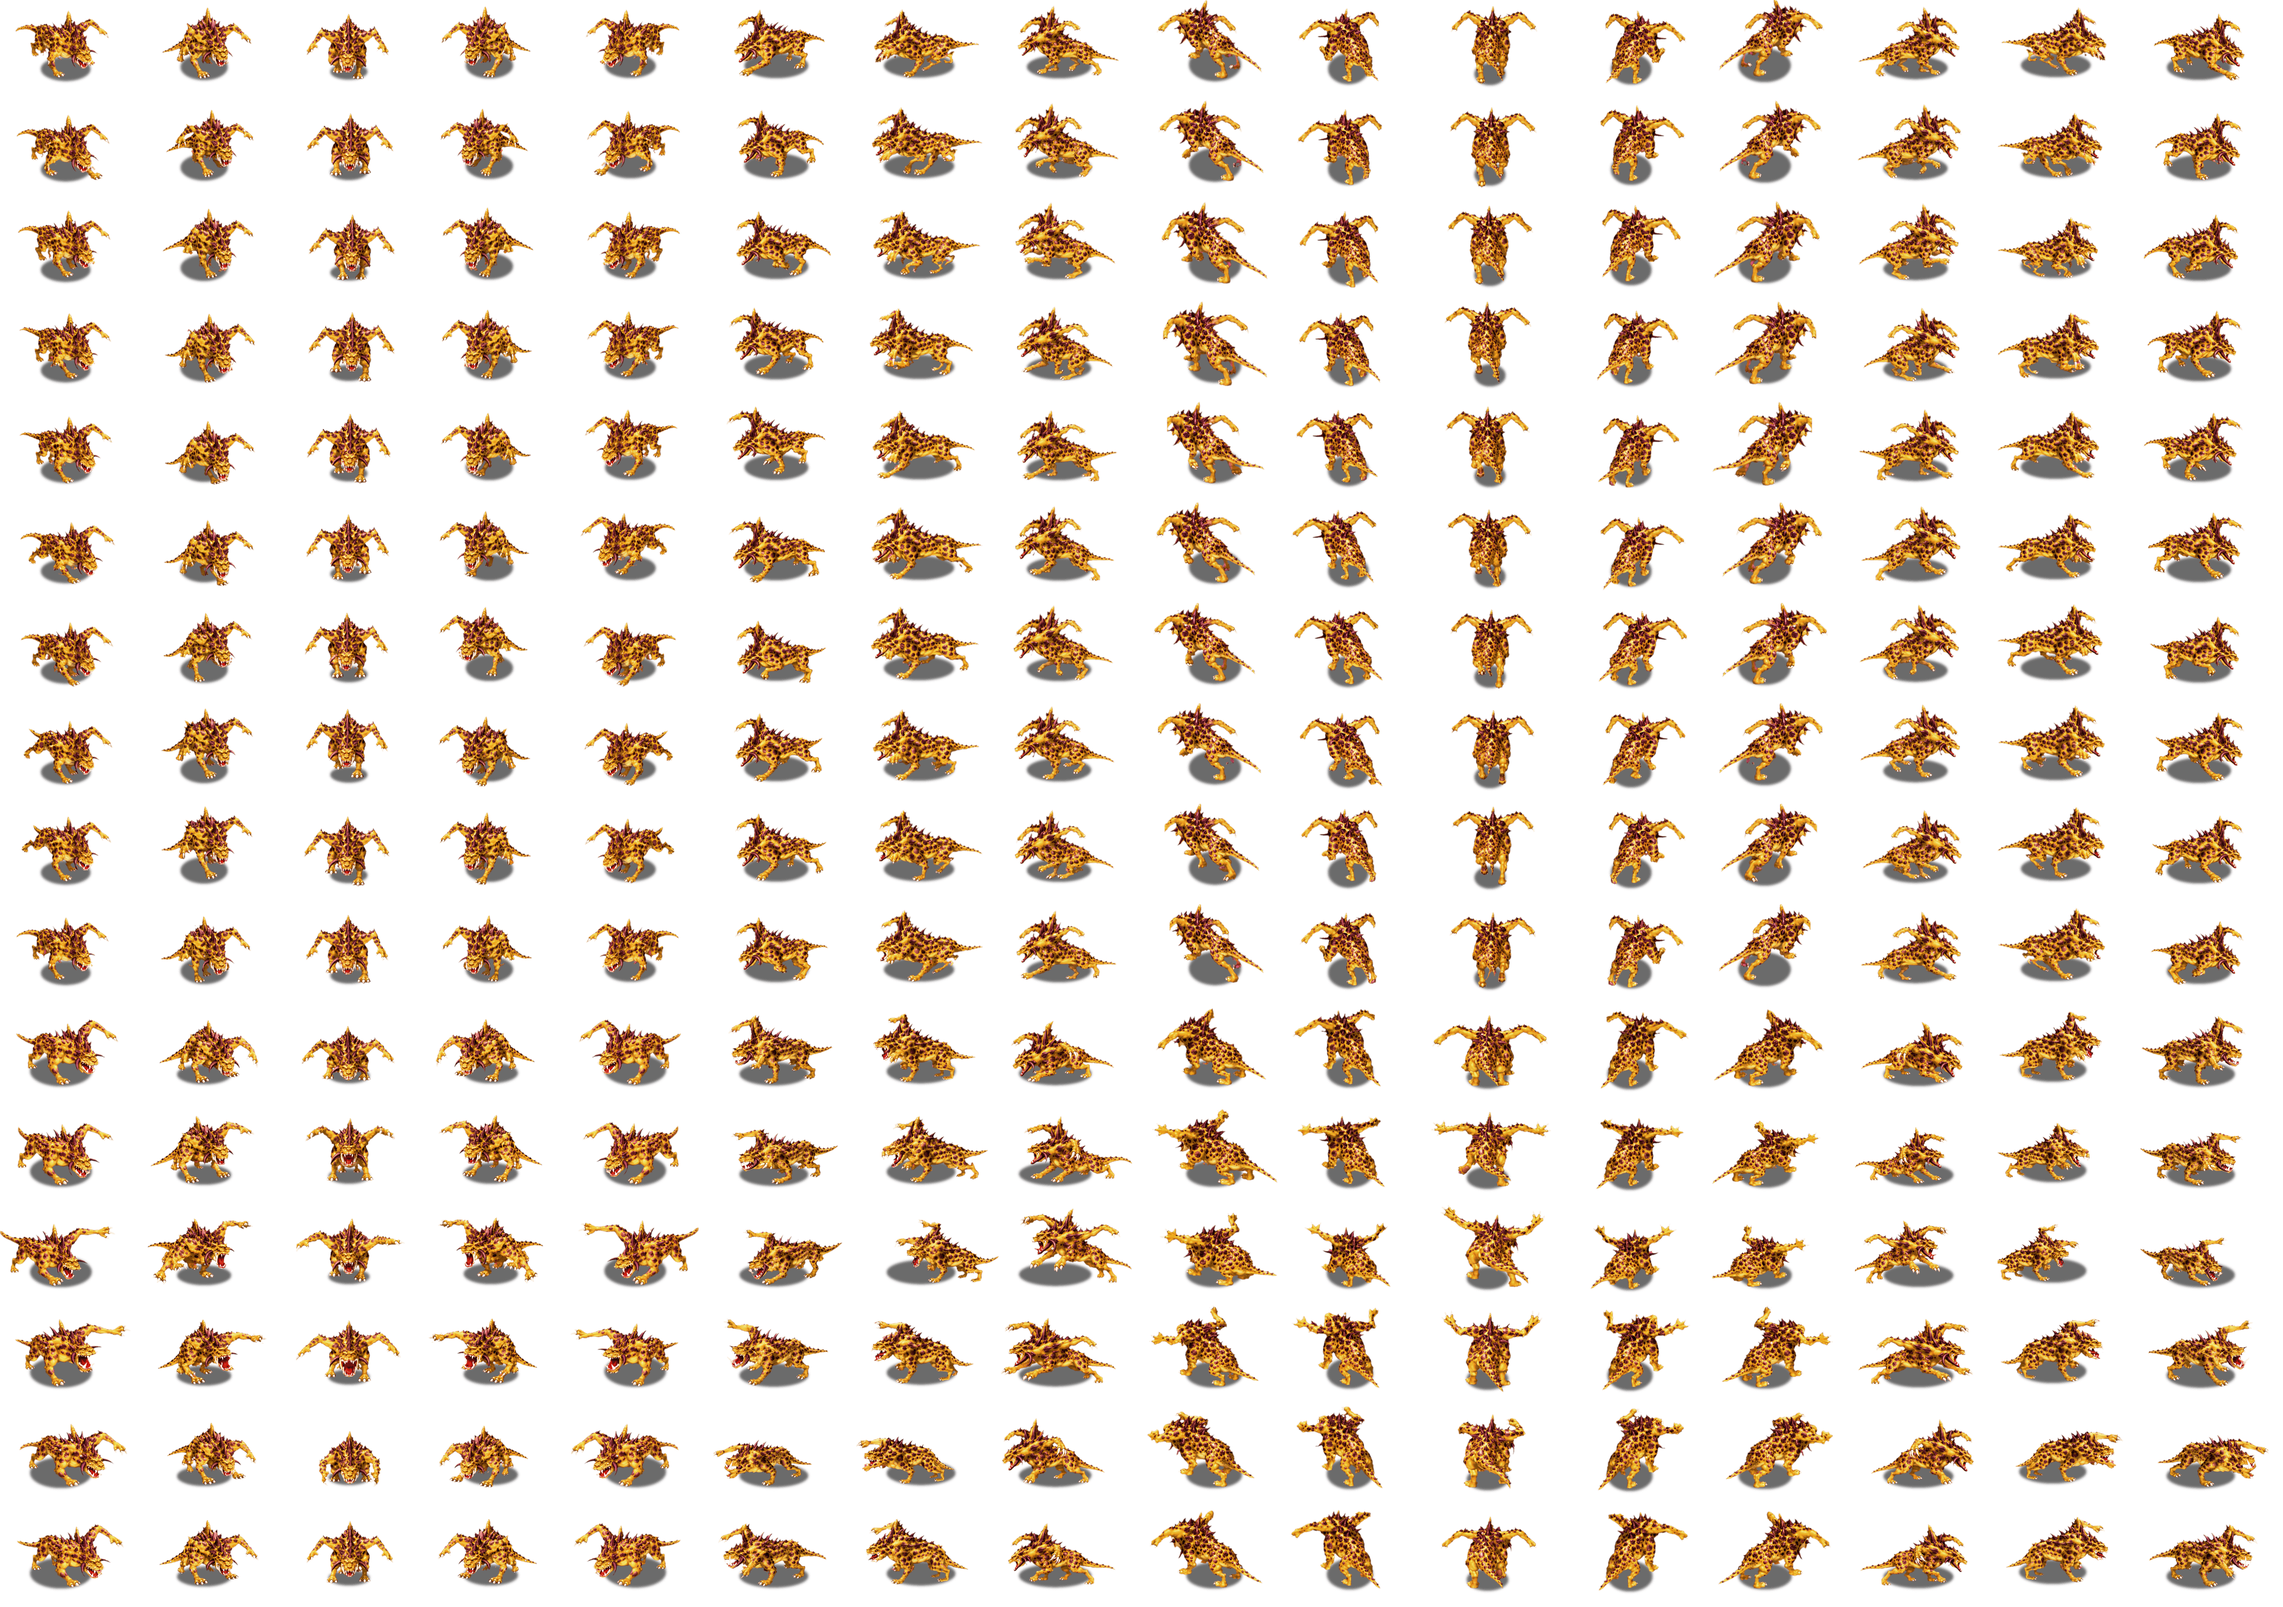
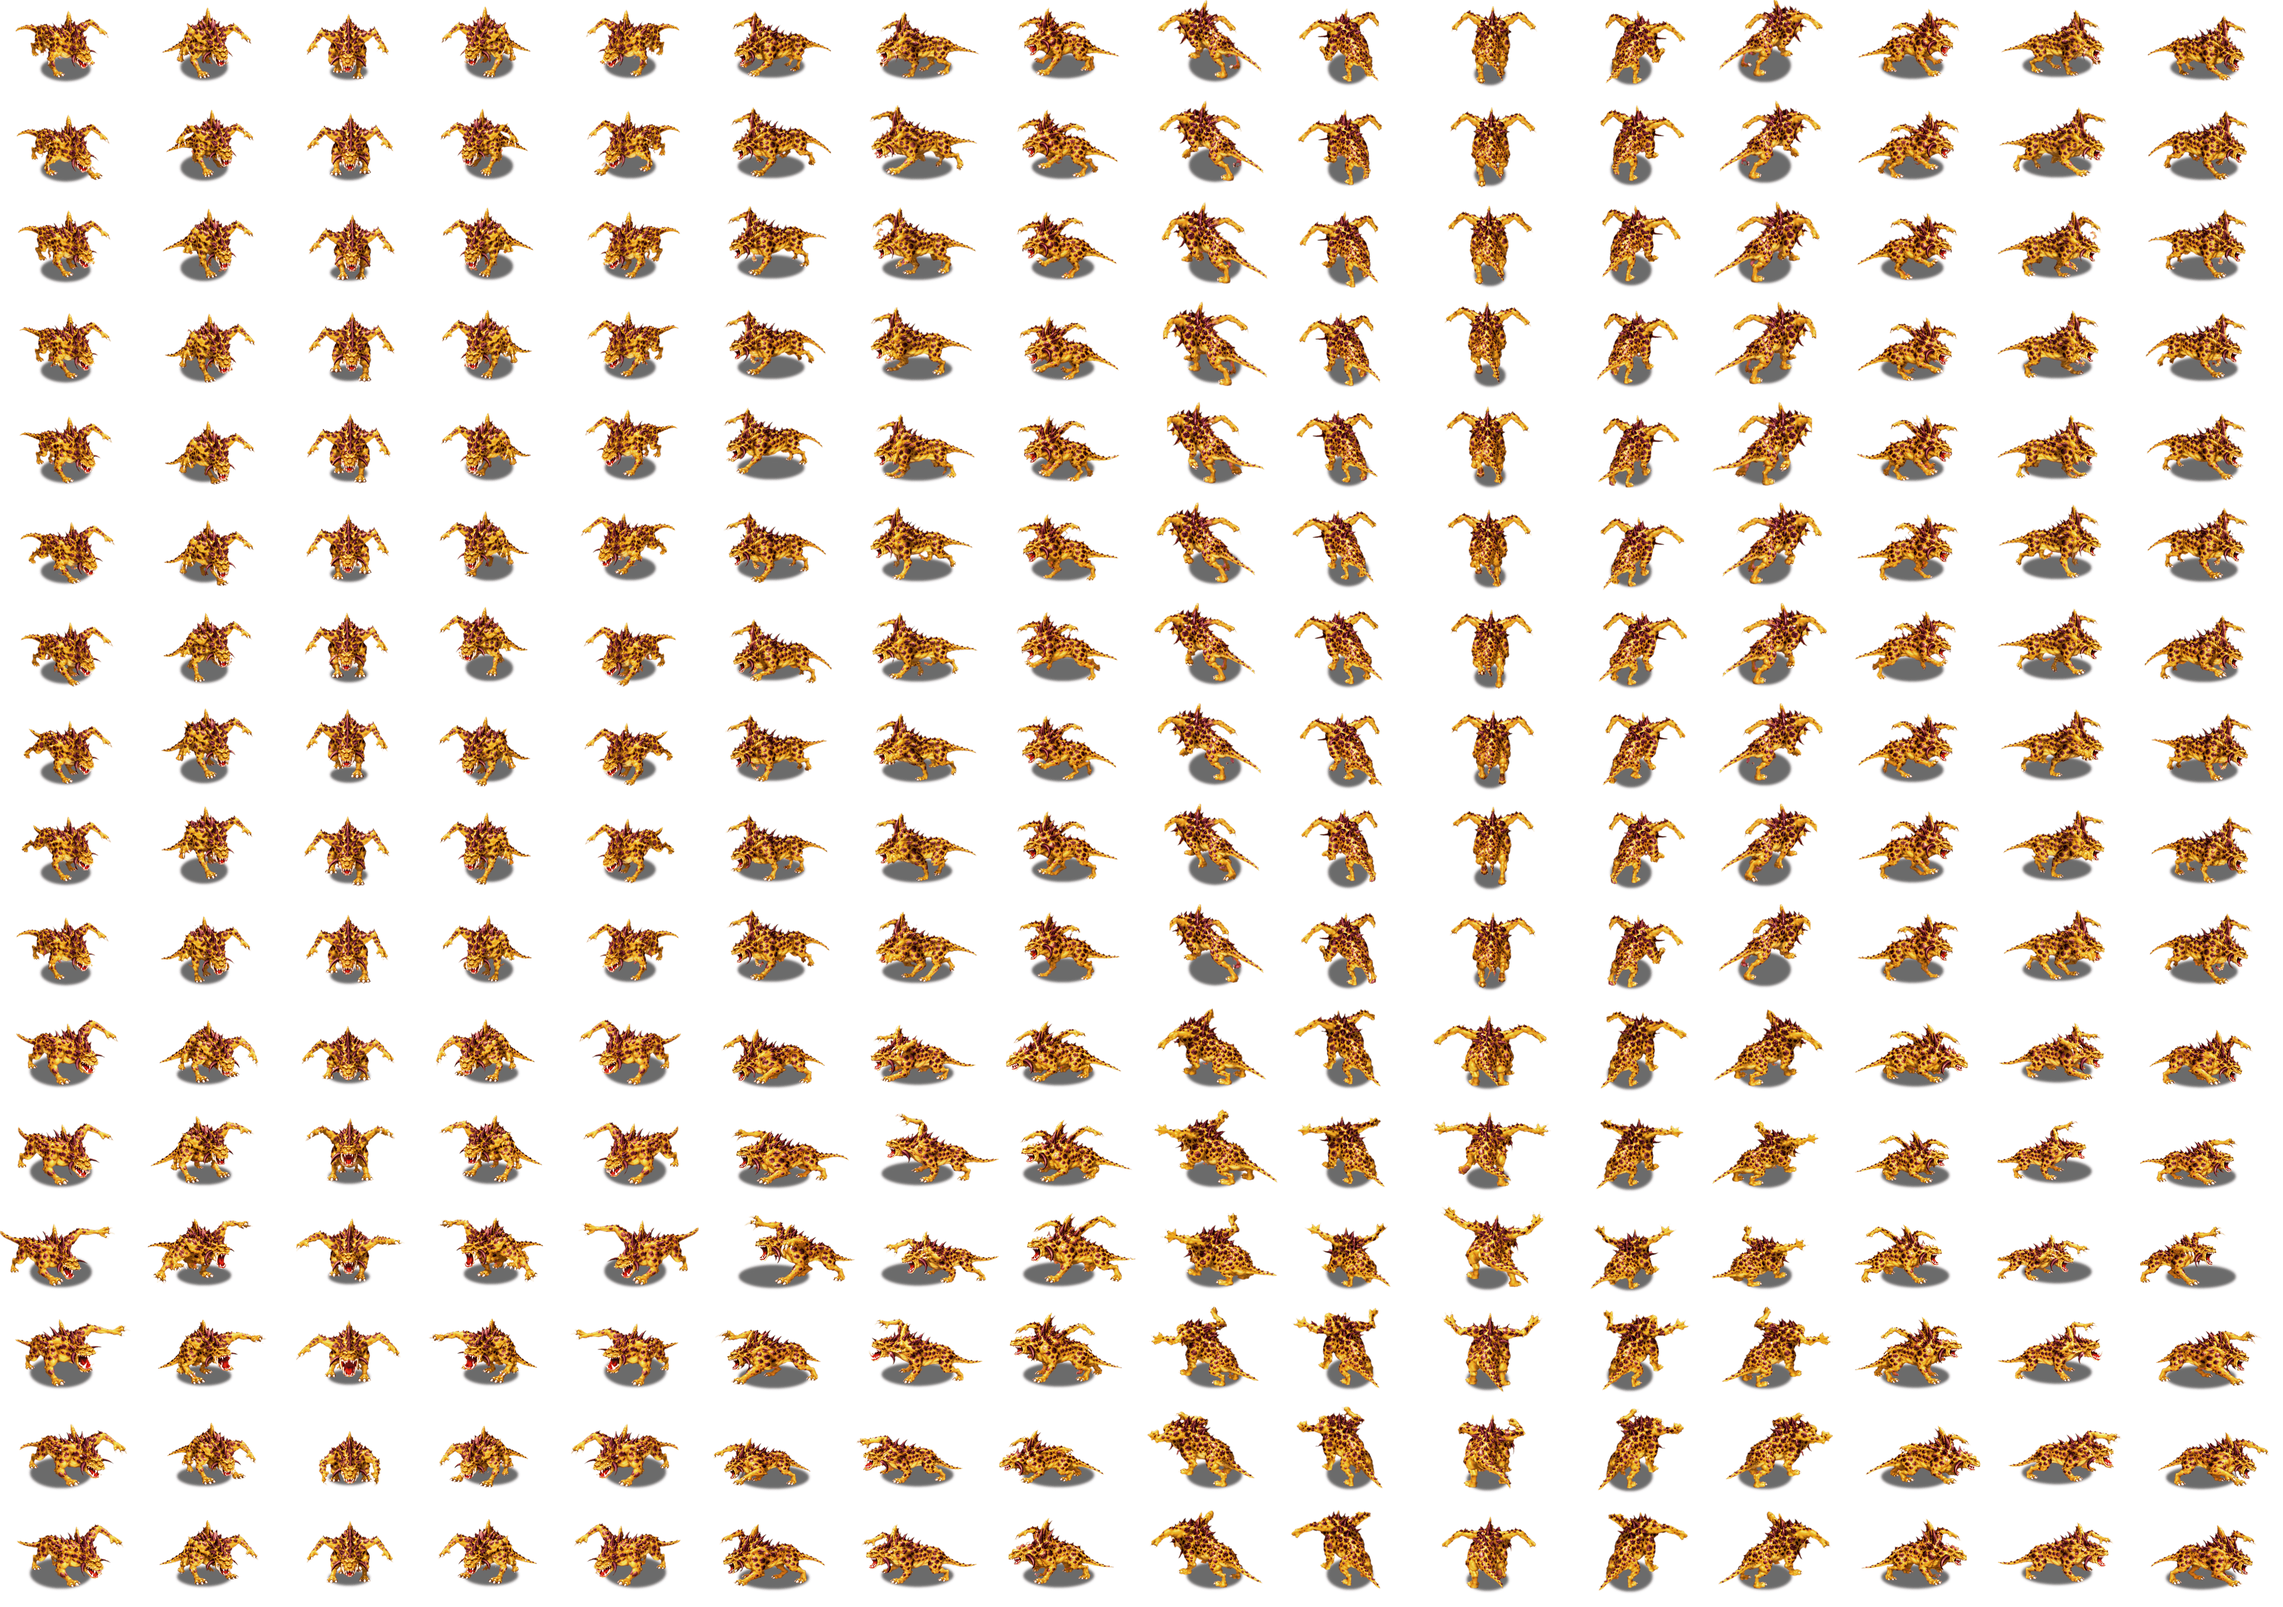
Krallen levels 5-6: the tusk no longer lies across the open mouth at the side headings
Claude-Session: https://claude.ai/code/session_01YTHpmywxAea5hyoFbwoMtD

Changed region(s): [[0.3125, 0.0, 0.5, 1.0], [0.8125, 0.0, 1.0, 1.0]]

diff --git a/web/src/game/attack/sheetVersions.ts b/web/src/game/attack/sheetVersions.ts
@@ -126,9 +126,9 @@ export const SHEET_VERSIONS: Readonly<Record<string, string>> = {
   "monsters/krallen_2_rev_65-repaint@4x.png": "4xwyh",
   "monsters/krallen_2_rev_65-repaint@2x.png": "1g6c2",
   "monsters/krallen_2_rev_65-repaint.png": "fk3b",
-  "monsters/krallen_3_rev_65-repaint@4x.png": "612if",
-  "monsters/krallen_3_rev_65-repaint@2x.png": "1rvzw",
-  "monsters/krallen_3_rev_65-repaint.png": "iv4q",
+  "monsters/krallen_3_rev_65-repaint@4x.png": "651wz",
+  "monsters/krallen_3_rev_65-repaint@2x.png": "1rymc",
+  "monsters/krallen_3_rev_65-repaint.png": "ipnd",
   "monsters/korath_1-repaint@4x.png": "2a3tg",
   "monsters/korath_1-repaint@2x.png": "p3pb",
   "monsters/korath_1-repaint.png": "7ihy",
